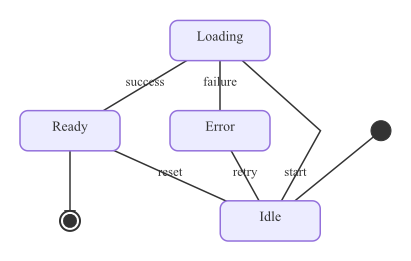
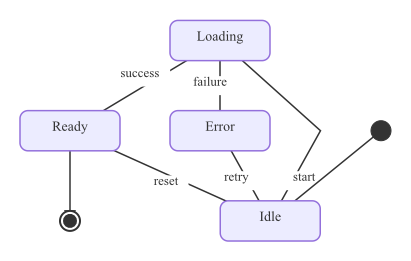
state: separate cyclic transition labels + white backdrop
The traffic-light example (a 3-state cycle with all transitions
labeled "timer") rendered with three labels converging at the
layout-emitted midpoint of its polylines — effectively illegible.

Two fixes, both scoped to the state renderer:

- Shift each label perpendicular to the edge tangent at the middle
  segment. A fixed +90° CCW offset keeps placement deterministic
  and spreads labels whose edges go in different directions —
  exactly the cyclic-cluster case. Straight-edge diagrams pick up a
  small (10px) offset to the side; the overall layout stays
  compact, labels no longer bisect their own edges.
- Add a white backdrop rect behind each label, same pattern
  flowchart already uses. Makes labels readable when they overlap
  unrelated edges crossing the region.

Regenerates examples/state/{simple,traffic_light}.{svg,png}. Visual
on traffic_light: three "timer" labels now sit beside their own
edges (Green→Yellow upper-left, Red→Green center-right,
Yellow→Red lower-left) instead of a single cluster.

diff --git a/pkg/renderer/state/renderer.go b/pkg/renderer/state/renderer.go
@@ -272,8 +272,16 @@ func renderEdges(d *diagram.StateDiagram, l *layout.Result, pad, fontSize float6
 			t := candidates[0]
 			transMap[key] = candidates[1:]
 			if t.Label != "" {
-				lx := el.LabelPos.X + pad
-				ly := el.LabelPos.Y + pad
+				lx, ly := labelPosition(pts, el.LabelPos.X+pad, el.LabelPos.Y+pad)
+				labelW := textmeasure.EstimateWidth(t.Label, fontSize-1)
+				const labelPad = 3.0
+				elems = append(elems, &rect{
+					X:      svgFloat(lx - labelW/2 - labelPad),
+					Y:      svgFloat(ly - (fontSize-1)/2 - labelPad),
+					Width:  svgFloat(labelW + 2*labelPad),
+					Height: svgFloat(fontSize - 1 + 2*labelPad),
+					Style:  "fill:white;stroke:none",
+				})
 				elems = append(elems, &text{
 					X: svgFloat(lx), Y: svgFloat(ly),
 					Anchor: "middle", Dominant: "central",
@@ -284,6 +292,29 @@ func renderEdges(d *diagram.StateDiagram, l *layout.Result, pad, fontSize float6
 		}
 	}
 	return elems
+}
+
+// labelPosition nudges the layout-emitted label point perpendicular
+// to the edge at that segment so labels on nearby or parallel edges
+// land on the side rather than crowding the same midpoint. Fixed
+// side (+90° CCW of the edge tangent) keeps placement deterministic
+// per edge; edges going different directions naturally spread.
+func labelPosition(pts []layout.Point, lx, ly float64) (float64, float64) {
+	if len(pts) < 2 {
+		return lx, ly
+	}
+	mid := len(pts) / 2
+	if mid == 0 {
+		mid = 1
+	}
+	dx := pts[mid].X - pts[mid-1].X
+	dy := pts[mid].Y - pts[mid-1].Y
+	length := math.Sqrt(dx*dx + dy*dy)
+	if length == 0 {
+		return lx, ly
+	}
+	const perpOffset = 10.0
+	return lx + -dy/length*perpOffset, ly + dx/length*perpOffset
 }
 
 func isPseudoNode(id string) bool {
